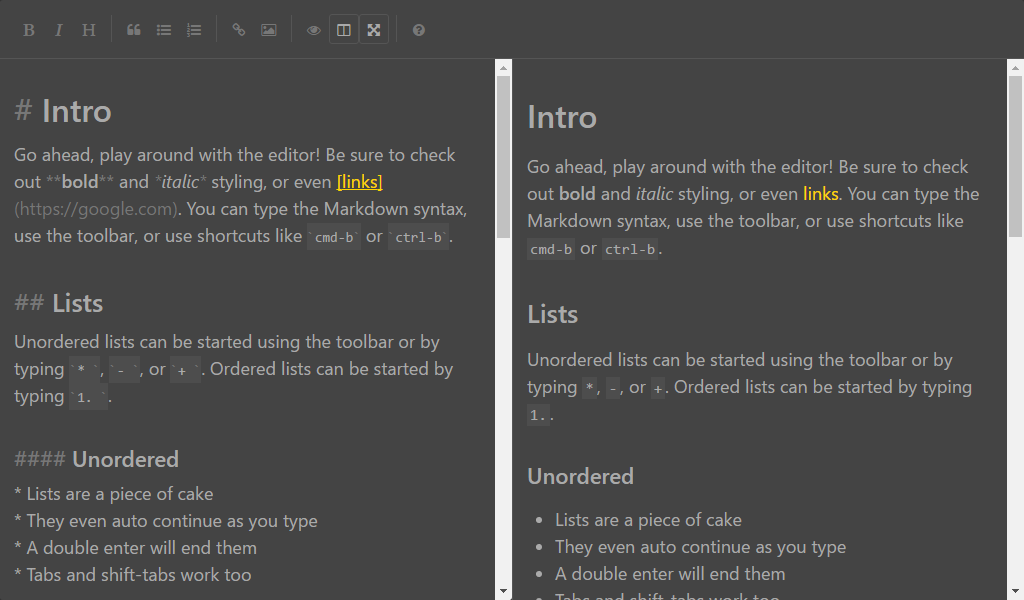
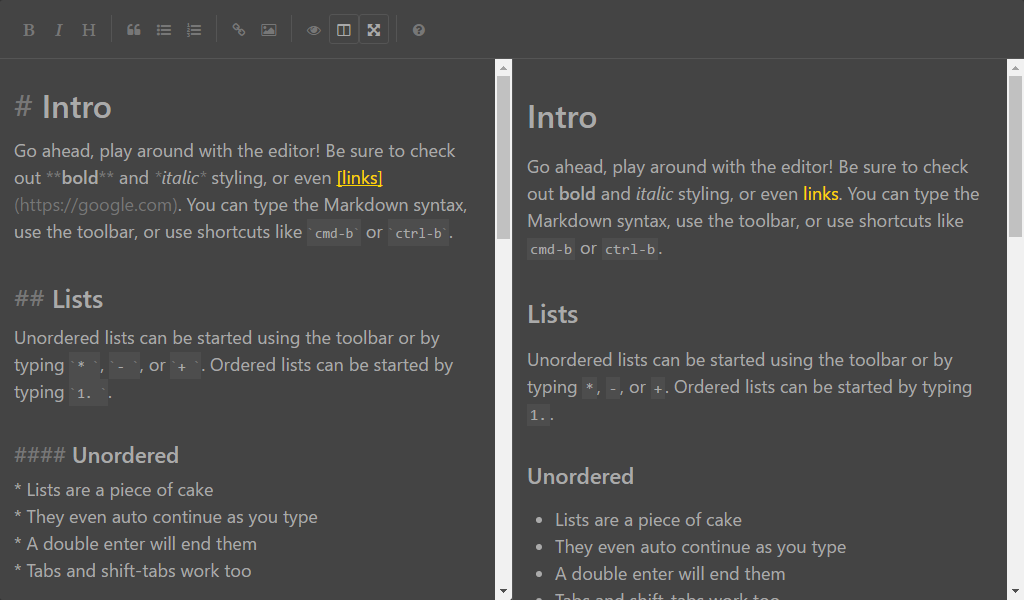
Fix lines paddings

diff --git a/dist/simplemde-theme-dark.min.css b/dist/simplemde-theme-dark.min.css
@@ -1,1 +1,1 @@
-@charset "UTF-8";.CodeMirror-lines{padding:4px 0}.CodeMirror-gutter-filler,.CodeMirror-scrollbar-filler{background-color:#fff}.CodeMirror-gutters{border-right:1px solid #ddd;background-color:#f7f7f7;white-space:nowrap}.CodeMirror-linenumber{padding:0 3px 0 5px;min-width:20px;text-align:right;color:#999;white-space:nowrap}.CodeMirror-guttermarker{color:#000}.CodeMirror-guttermarker-subtle{color:#999}.CodeMirror-cursor{border-left:1px solid #000;border-right:none;width:0}.CodeMirror div.CodeMirror-secondarycursor{border-left:1px solid silver}.cm-fat-cursor .CodeMirror-cursor{width:auto;border:0!important;background:#7e7}.cm-fat-cursor div.CodeMirror-cursors{z-index:1}.cm-animate-fat-cursor{width:auto;border:0;-webkit-animation:blink 1.06s steps(1) infinite;-moz-animation:blink 1.06s steps(1) infinite;animation:blink 1.06s steps(1) infinite;background-color:#7e7}@-moz-keyframes blink{50%{background-color:transparent}}@-webkit-keyframes blink{50%{background-color:transparent}}@keyframes blink{50%{background-color:transparent}}.cm-tab{display:inline-block;text-decoration:inherit}.CodeMirror-rulers{position:absolute;left:0;right:0;top:-50px;bottom:-20px;overflow:hidden}.CodeMirror-ruler{border-left:1px solid #ccc;top:0;bottom:0;position:absolute}.CodeMirror,.CodeMirror-scroll{position:relative;min-height:300px}.cm-s-default .cm-header{color:#00f}.cm-s-default .cm-quote{color:#090}.cm-negative{color:#d44}.cm-positive{color:#292}.cm-header,.cm-strong{font-weight:700}.cm-em{font-style:italic}.cm-link{text-decoration:underline}.CodeMirror .CodeMirror-code .cm-strikethrough,.cm-strikethrough{text-decoration:line-through}.cm-s-default .cm-keyword{color:#708}.cm-s-default .cm-atom{color:#219}.cm-s-default .cm-number{color:#164}.cm-s-default .cm-def{color:#00f}.cm-s-default .cm-variable-2{color:#05a}.cm-s-default .cm-variable-3{color:#085}.cm-s-default .cm-comment{color:#a50}.cm-s-default .cm-string{color:#a11}.cm-s-default .cm-string-2{color:#f50}.cm-s-default .cm-meta,.cm-s-default .cm-qualifier{color:#555}.cm-s-default .cm-builtin{color:#30a}.cm-s-default .cm-bracket{color:#997}.cm-s-default .cm-tag{color:#170}.cm-s-default .cm-attribute{color:#00c}.cm-s-default .cm-hr{color:#999}.cm-s-default .cm-link{color:#00c}.cm-invalidchar,.cm-s-default .cm-error{color:red}.CodeMirror-composing{border-bottom:2px solid}div.CodeMirror span.CodeMirror-matchingbracket{color:#0f0}div.CodeMirror span.CodeMirror-nonmatchingbracket{color:#f22}.CodeMirror-matchingtag{background:rgba(255,150,0,.3)}.CodeMirror-activeline-background{background:#e8f2ff}.CodeMirror{position:relative;overflow:hidden;background:#fff}.CodeMirror-scroll{overflow:scroll!important;height:100%;outline:0;position:relative}.CodeMirror-sizer{position:relative;border-right:30px solid transparent}.CodeMirror-gutter-filler,.CodeMirror-hscrollbar,.CodeMirror-scrollbar-filler,.CodeMirror-vscrollbar{position:absolute;z-index:6;display:none}.CodeMirror-vscrollbar{right:0;top:0;overflow-x:hidden;overflow-y:scroll}.CodeMirror-hscrollbar{bottom:0;left:0;overflow-y:hidden;overflow-x:scroll}.CodeMirror-scrollbar-filler{right:0;bottom:0}.CodeMirror-gutter-filler{left:0;bottom:0}.CodeMirror-gutters{position:absolute;left:0;top:0;min-height:100%;z-index:3}.CodeMirror-gutter{white-space:normal;height:100%;display:inline-block;vertical-align:top;margin-bottom:-30px}.CodeMirror-gutter-wrapper{position:absolute;z-index:4;background:0 0!important;border:none!important;-webkit-user-select:none;-moz-user-select:none;user-select:none}.CodeMirror-gutter-background{position:absolute;top:0;bottom:0;z-index:4}.CodeMirror-gutter-elt{position:absolute;cursor:default;z-index:4}.CodeMirror-lines{cursor:text;min-height:1px}.CodeMirror pre{-moz-border-radius:0;-webkit-border-radius:0;border-radius:0;border-width:0;background:0 0;font-family:inherit;font-size:inherit;margin:0;white-space:pre;word-wrap:normal;line-height:inherit;color:inherit;z-index:2;position:relative;overflow:visible;-webkit-tap-highlight-color:transparent;-webkit-font-variant-ligatures:contextual;font-variant-ligatures:contextual}.CodeMirror-wrap pre{word-wrap:break-word;white-space:pre-wrap;word-break:normal}.CodeMirror-linebackground{position:absolute;left:0;right:0;top:0;bottom:0;z-index:0}.CodeMirror-linewidget{position:relative;z-index:2;overflow:auto}.CodeMirror-code{outline:0}.CodeMirror-gutter,.CodeMirror-gutters,.CodeMirror-linenumber,.CodeMirror-scroll,.CodeMirror-sizer{-moz-box-sizing:content-box;box-sizing:content-box}.CodeMirror-measure{position:absolute;width:100%;height:0;overflow:hidden;visibility:hidden}.CodeMirror-cursor{position:absolute;pointer-events:none}.CodeMirror-measure pre{position:static}div.CodeMirror-cursors{visibility:hidden;position:relative;z-index:3}.CodeMirror-focused div.CodeMirror-cursors,div.CodeMirror-dragcursors{visibility:visible}.CodeMirror-selected{background:#d9d9d9}.CodeMirror-focused .CodeMirror-selected{background:#d7d4f0}.CodeMirror-crosshair{cursor:crosshair}.CodeMirror-line::selection,.CodeMirror-line>span::selection,.CodeMirror-line>span>span::selection{background:#d7d4f0}.CodeMirror-line::-moz-selection,.CodeMirror-line>span::-moz-selection,.CodeMirror-line>span>span::-moz-selection{background:#d7d4f0}.cm-searching{background:#ffa;background:rgba(255,255,0,.4)}.cm-force-border{padding-right:.1px}@media print{.CodeMirror div.CodeMirror-cursors{visibility:hidden}}.cm-tab-wrap-hack:after{content:''}span.CodeMirror-selectedtext{background:0 0}.CodeMirror{height:auto;border:1px solid #555;border-bottom-left-radius:3px;border-bottom-right-radius:3px;padding:14px;font-family:inherit;font-size:18px;line-height:1.5;color:#aaa;z-index:1;background-color:#444}.CodeMirror-scroll{margin-bottom:-32px;margin-right:-32px;padding-bottom:32px}.CodeMirror-fullscreen{background:#444;position:fixed!important;top:58px;left:0;right:0;bottom:0;height:auto;z-index:9;border:0;border-top:1px solid #555}.CodeMirror-sided{width:50%!important}.CodeMirror .CodeMirror-placeholder{color:#777}.CodeMirror-cursor{border-left-color:#aaa}.CodeMirror pre{padding:0}.CodeMirror-focused .CodeMirror-selected,.CodeMirror-line::-moz-selection,.CodeMirror-line>span::-moz-selection,.CodeMirror-line>span>span::-moz-selection,.CodeMirror-selected{background-color:rgba(255,255,255,.1)}.CodeMirror-focused .CodeMirror-selected,.CodeMirror-line::selection,.CodeMirror-line>span::selection,.CodeMirror-line>span>span::selection,.CodeMirror-selected{background-color:rgba(255,255,255,.1)}.CodeMirror .CodeMirror-code .cm-attribute,.CodeMirror .CodeMirror-code .cm-tag{color:#95bf40}.CodeMirror .CodeMirror-code .cm-string{color:#777}.CodeMirror .CodeMirror-code .cm-link{color:#ffd500}.CodeMirror .CodeMirror-code .cm-formatting-code,.CodeMirror .CodeMirror-code .cm-formatting-code-block,.CodeMirror .CodeMirror-code .cm-formatting-em,.CodeMirror .CodeMirror-code .cm-formatting-header,.CodeMirror .CodeMirror-code .cm-formatting-strikethrough,.CodeMirror .CodeMirror-code .cm-formatting-strong,.CodeMirror .CodeMirror-code .cm-hr,.CodeMirror .CodeMirror-code .cm-quote,.CodeMirror .CodeMirror-code .cm-url{color:#777}.CodeMirror .CodeMirror-code .cm-header-1,.CodeMirror .CodeMirror-code .cm-header-2,.CodeMirror .CodeMirror-code .cm-header-3,.CodeMirror .CodeMirror-code .cm-header-4,.CodeMirror .CodeMirror-code .cm-header-5,.CodeMirror .CodeMirror-code .cm-header-6{line-height:2}.CodeMirror .CodeMirror-code .cm-header-1{font-size:32px}.CodeMirror .CodeMirror-code .cm-header-2{font-size:26px}.CodeMirror .CodeMirror-code .cm-header-3{font-size:24px}.CodeMirror .CodeMirror-code .cm-header-4{font-size:22px}.CodeMirror .CodeMirror-code .cm-header-5{font-size:20px}.CodeMirror .CodeMirror-code .cm-header-6{font-size:18px}.CodeMirror .CodeMirror-code .cm-header,.CodeMirror .CodeMirror-code .cm-strong{font-weight:600}.CodeMirror .CodeMirror-code .cm-comment{font-family:Menlo,Monaco,Consolas,"Liberation Mono","Courier New",monospace;background:rgba(255,255,255,.05);font-size:14px;padding:6px 0 4px}.CodeMirror .CodeMirror-code span.CodeMirror-selectedtext.cm-comment{background:rgba(255,255,255,.05)}.editor-preview{position:absolute;width:100%;height:100%;top:0;left:0;z-index:2}.editor-preview-side{position:fixed;bottom:0;width:50%;top:58px;right:0;z-index:9;border:0;border-top:1px solid #555;border-left:1px solid #555}.editor-preview,.editor-preview-side{padding:0 14px 14px;color:#aaa;font-family:inherit;font-size:18px;line-height:1.5;background:#444;overflow:auto;display:none;box-sizing:border-box}.editor-preview pre,.editor-preview-side pre{overflow:auto;-webkit-overflow-scrolling:touch;background-color:rgba(255,255,255,.05);font-family:Menlo,Monaco,Consolas,"Liberation Mono","Courier New",monospace;font-size:14px;line-height:1.2;padding:14px;margin-top:14px}.editor-preview pre code,.editor-preview-side pre code{background-color:transparent;font-size:14px;padding:0}.editor-preview-active,.editor-preview-active-side{display:block}.editor-preview table,.editor-preview-side table{background-color:#444;border:0;border-collapse:collapse;border-spacing:0;width:100%}.editor-preview table caption,.editor-preview-side table caption{caption-side:bottom;color:#777;padding:7px;text-align:left}.editor-preview table td,.editor-preview table th,.editor-preview-side table td,.editor-preview-side table th{border:0;border-bottom:1px solid #555;padding:7px;text-align:left}.editor-preview table th,.editor-preview-side table th{background-color:rgba(255,255,255,.05);font-weight:600}.editor-preview audio:not([controls]),.editor-preview-side audio:not([controls]){display:none;height:0}.editor-preview img,.editor-preview-side img{max-width:100%;vertical-align:middle}.editor-preview audio,.editor-preview video,.editor-preview-side audio,.editor-preview-side video{width:100%}.editor-toolbar{position:relative;-webkit-user-select:none;-moz-user-select:none;-ms-user-select:none;user-select:none;padding:0 14px;border:1px solid #555;border-bottom:0;border-top-left-radius:3px;border-top-right-radius:3px;font-size:18px;background-color:#444}.editor-toolbar:after,.editor-toolbar:before{display:block;content:' ';height:1px}.editor-toolbar:before{margin-bottom:7px}.editor-toolbar:after{margin-top:7px}.editor-toolbar a{display:inline-block;text-align:center;text-decoration:none!important;color:#777!important;width:30px;height:30px;margin:0;border:1px solid transparent;border-radius:3px;cursor:pointer;font-size:80%}.editor-toolbar a.active,.editor-toolbar a:hover{color:#aaa!important;border-color:#555}.editor-toolbar a:before{line-height:30px}.editor-toolbar a.fa-header-x:after{font-family:inherit;font-size:80%;line-height:0;position:relative;vertical-align:baseline;bottom:-.25em}.editor-toolbar a.fa-header-1:after{content:"1"}.editor-toolbar a.fa-header-2:after{content:"2"}.editor-toolbar a.fa-header-3:after{content:"3"}.editor-toolbar a.fa-header-bigger:after{content:"▲"}.editor-toolbar a.fa-header-smaller:after{content:"▼"}.editor-toolbar i.separator{display:inline-block;width:0;border-right:1px solid #555;color:transparent;text-indent:-10px;margin:0 7px}.editor-toolbar:hover a{color:#aaa!important}.editor-toolbar.fullscreen{width:100%;height:58px;overflow-x:auto;overflow-y:hidden;white-space:nowrap;padding-top:14px;padding-bottom:14px;box-sizing:border-box;background:#444;border:0;position:fixed;top:0;left:0;z-index:9}.editor-toolbar.fullscreen::after,.editor-toolbar.fullscreen::before{width:20px;height:58px;position:fixed;top:0;left:0;margin:0;padding:0}@media only screen and (max-width:700px){.editor-toolbar a.no-mobile{display:none}}.editor-toolbar.disabled-for-preview a:not(.no-disable){pointer-events:none;background:#444;border-color:transparent;text-shadow:inherit}.editor-statusbar{padding:7px 14px;font-family:inherit;font-size:80%;color:#777;text-align:right}.editor-statusbar span{display:inline-block;margin-left:1em}.editor-statusbar .lines:before{content:'lines: '}.editor-statusbar .words:before{content:'words: '}.editor-statusbar .characters:before{content:'characters: '}
+@charset "UTF-8";.CodeMirror-gutter-filler,.CodeMirror-scrollbar-filler{background-color:#fff}.CodeMirror-gutters{border-right:1px solid #ddd;background-color:#f7f7f7;white-space:nowrap}.CodeMirror-linenumber{padding:0 3px 0 5px;min-width:20px;text-align:right;color:#999;white-space:nowrap}.CodeMirror-guttermarker{color:#000}.CodeMirror-guttermarker-subtle{color:#999}.CodeMirror-cursor{border-left:1px solid #000;border-right:none;width:0}.CodeMirror div.CodeMirror-secondarycursor{border-left:1px solid silver}.cm-fat-cursor .CodeMirror-cursor{width:auto;border:0!important;background:#7e7}.cm-fat-cursor div.CodeMirror-cursors{z-index:1}.cm-animate-fat-cursor{width:auto;border:0;-webkit-animation:blink 1.06s steps(1) infinite;-moz-animation:blink 1.06s steps(1) infinite;animation:blink 1.06s steps(1) infinite;background-color:#7e7}@-moz-keyframes blink{50%{background-color:transparent}}@-webkit-keyframes blink{50%{background-color:transparent}}@keyframes blink{50%{background-color:transparent}}.cm-tab{display:inline-block;text-decoration:inherit}.CodeMirror-rulers{position:absolute;left:0;right:0;top:-50px;bottom:-20px;overflow:hidden}.CodeMirror-ruler{border-left:1px solid #ccc;top:0;bottom:0;position:absolute}.CodeMirror,.CodeMirror-scroll{position:relative;min-height:300px}.cm-s-default .cm-header{color:#00f}.cm-s-default .cm-quote{color:#090}.cm-negative{color:#d44}.cm-positive{color:#292}.cm-header,.cm-strong{font-weight:700}.cm-em{font-style:italic}.cm-link{text-decoration:underline}.CodeMirror .CodeMirror-code .cm-strikethrough,.cm-strikethrough{text-decoration:line-through}.cm-s-default .cm-keyword{color:#708}.cm-s-default .cm-atom{color:#219}.cm-s-default .cm-number{color:#164}.cm-s-default .cm-def{color:#00f}.cm-s-default .cm-variable-2{color:#05a}.cm-s-default .cm-variable-3{color:#085}.cm-s-default .cm-comment{color:#a50}.cm-s-default .cm-string{color:#a11}.cm-s-default .cm-string-2{color:#f50}.cm-s-default .cm-meta,.cm-s-default .cm-qualifier{color:#555}.cm-s-default .cm-builtin{color:#30a}.cm-s-default .cm-bracket{color:#997}.cm-s-default .cm-tag{color:#170}.cm-s-default .cm-attribute{color:#00c}.cm-s-default .cm-hr{color:#999}.cm-s-default .cm-link{color:#00c}.cm-invalidchar,.cm-s-default .cm-error{color:red}.CodeMirror-composing{border-bottom:2px solid}div.CodeMirror span.CodeMirror-matchingbracket{color:#0f0}div.CodeMirror span.CodeMirror-nonmatchingbracket{color:#f22}.CodeMirror-matchingtag{background:rgba(255,150,0,.3)}.CodeMirror-activeline-background{background:#e8f2ff}.CodeMirror{position:relative;overflow:hidden;background:#fff}.CodeMirror-scroll{overflow:scroll!important;height:100%;outline:0;position:relative}.CodeMirror-sizer{position:relative;border-right:30px solid transparent}.CodeMirror-gutter-filler,.CodeMirror-hscrollbar,.CodeMirror-scrollbar-filler,.CodeMirror-vscrollbar{position:absolute;z-index:6;display:none}.CodeMirror-vscrollbar{right:0;top:0;overflow-x:hidden;overflow-y:scroll}.CodeMirror-hscrollbar{bottom:0;left:0;overflow-y:hidden;overflow-x:scroll}.CodeMirror-scrollbar-filler{right:0;bottom:0}.CodeMirror-gutter-filler{left:0;bottom:0}.CodeMirror-gutters{position:absolute;left:0;top:0;min-height:100%;z-index:3}.CodeMirror-gutter{white-space:normal;height:100%;display:inline-block;vertical-align:top;margin-bottom:-30px}.CodeMirror-gutter-wrapper{position:absolute;z-index:4;background:0 0!important;border:none!important;-webkit-user-select:none;-moz-user-select:none;user-select:none}.CodeMirror-gutter-background{position:absolute;top:0;bottom:0;z-index:4}.CodeMirror-gutter-elt{position:absolute;cursor:default;z-index:4}.CodeMirror-lines{cursor:text;min-height:1px}.CodeMirror pre{-moz-border-radius:0;-webkit-border-radius:0;border-radius:0;border-width:0;background:0 0;font-family:inherit;font-size:inherit;margin:0;white-space:pre;word-wrap:normal;line-height:inherit;color:inherit;z-index:2;position:relative;overflow:visible;-webkit-tap-highlight-color:transparent;-webkit-font-variant-ligatures:contextual;font-variant-ligatures:contextual}.CodeMirror-wrap pre{word-wrap:break-word;white-space:pre-wrap;word-break:normal}.CodeMirror-linebackground{position:absolute;left:0;right:0;top:0;bottom:0;z-index:0}.CodeMirror-linewidget{position:relative;z-index:2;overflow:auto}.CodeMirror-code{outline:0}.CodeMirror-gutter,.CodeMirror-gutters,.CodeMirror-linenumber,.CodeMirror-scroll,.CodeMirror-sizer{-moz-box-sizing:content-box;box-sizing:content-box}.CodeMirror-measure{position:absolute;width:100%;height:0;overflow:hidden;visibility:hidden}.CodeMirror-cursor{position:absolute;pointer-events:none}.CodeMirror-measure pre{position:static}div.CodeMirror-cursors{visibility:hidden;position:relative;z-index:3}.CodeMirror-focused div.CodeMirror-cursors,div.CodeMirror-dragcursors{visibility:visible}.CodeMirror-selected{background:#d9d9d9}.CodeMirror-focused .CodeMirror-selected{background:#d7d4f0}.CodeMirror-crosshair{cursor:crosshair}.CodeMirror-line::selection,.CodeMirror-line>span::selection,.CodeMirror-line>span>span::selection{background:#d7d4f0}.CodeMirror-line::-moz-selection,.CodeMirror-line>span::-moz-selection,.CodeMirror-line>span>span::-moz-selection{background:#d7d4f0}.cm-searching{background:#ffa;background:rgba(255,255,0,.4)}.cm-force-border{padding-right:.1px}@media print{.CodeMirror div.CodeMirror-cursors{visibility:hidden}}.cm-tab-wrap-hack:after{content:''}span.CodeMirror-selectedtext{background:0 0}.CodeMirror{height:auto;border:1px solid #555;border-bottom-left-radius:3px;border-bottom-right-radius:3px;padding:14px;font-family:inherit;font-size:18px;line-height:1.5;color:#aaa;z-index:1;background-color:#444}.CodeMirror-scroll{margin-bottom:-32px;margin-right:-32px;padding-bottom:32px}.CodeMirror-fullscreen{background:#444;position:fixed!important;top:58px;left:0;right:0;bottom:0;height:auto;z-index:9;border:0;border-top:1px solid #555}.CodeMirror-sided{width:50%!important}.CodeMirror .CodeMirror-placeholder{color:#777}.CodeMirror-cursor{border-left-color:#aaa}.CodeMirror pre,.CodeMirror-lines{padding:0}.CodeMirror-focused .CodeMirror-selected,.CodeMirror-line::-moz-selection,.CodeMirror-line>span::-moz-selection,.CodeMirror-line>span>span::-moz-selection,.CodeMirror-selected{background-color:rgba(255,255,255,.1)}.CodeMirror-focused .CodeMirror-selected,.CodeMirror-line::selection,.CodeMirror-line>span::selection,.CodeMirror-line>span>span::selection,.CodeMirror-selected{background-color:rgba(255,255,255,.1)}.CodeMirror .CodeMirror-code .cm-attribute,.CodeMirror .CodeMirror-code .cm-tag{color:#95bf40}.CodeMirror .CodeMirror-code .cm-string{color:#777}.CodeMirror .CodeMirror-code .cm-link{color:#ffd500}.CodeMirror .CodeMirror-code .cm-formatting-code,.CodeMirror .CodeMirror-code .cm-formatting-code-block,.CodeMirror .CodeMirror-code .cm-formatting-em,.CodeMirror .CodeMirror-code .cm-formatting-header,.CodeMirror .CodeMirror-code .cm-formatting-strikethrough,.CodeMirror .CodeMirror-code .cm-formatting-strong,.CodeMirror .CodeMirror-code .cm-hr,.CodeMirror .CodeMirror-code .cm-quote,.CodeMirror .CodeMirror-code .cm-url{color:#777}.CodeMirror .CodeMirror-code .cm-header-1,.CodeMirror .CodeMirror-code .cm-header-2,.CodeMirror .CodeMirror-code .cm-header-3,.CodeMirror .CodeMirror-code .cm-header-4,.CodeMirror .CodeMirror-code .cm-header-5,.CodeMirror .CodeMirror-code .cm-header-6{line-height:2}.CodeMirror .CodeMirror-code .cm-header-1{font-size:32px}.CodeMirror .CodeMirror-code .cm-header-2{font-size:26px}.CodeMirror .CodeMirror-code .cm-header-3{font-size:24px}.CodeMirror .CodeMirror-code .cm-header-4{font-size:22px}.CodeMirror .CodeMirror-code .cm-header-5{font-size:20px}.CodeMirror .CodeMirror-code .cm-header-6{font-size:18px}.CodeMirror .CodeMirror-code .cm-header,.CodeMirror .CodeMirror-code .cm-strong{font-weight:600}.CodeMirror .CodeMirror-code .cm-comment{font-family:Menlo,Monaco,Consolas,"Liberation Mono","Courier New",monospace;background:rgba(255,255,255,.05);font-size:14px;padding:6px 0 4px}.CodeMirror .CodeMirror-code span.CodeMirror-selectedtext.cm-comment{background:rgba(255,255,255,.05)}.editor-preview{position:absolute;width:100%;height:100%;top:0;left:0;z-index:2}.editor-preview-side{position:fixed;bottom:0;width:50%;top:58px;right:0;z-index:9;border:0;border-top:1px solid #555;border-left:1px solid #555}.editor-preview,.editor-preview-side{padding:0 14px 14px;color:#aaa;font-family:inherit;font-size:18px;line-height:1.5;background:#444;overflow:auto;display:none;box-sizing:border-box}.editor-preview pre,.editor-preview-side pre{overflow:auto;-webkit-overflow-scrolling:touch;background-color:rgba(255,255,255,.05);font-family:Menlo,Monaco,Consolas,"Liberation Mono","Courier New",monospace;font-size:14px;line-height:1.2;padding:14px;margin-top:14px}.editor-preview pre code,.editor-preview-side pre code{background-color:transparent;font-size:14px;padding:0}.editor-preview-active,.editor-preview-active-side{display:block}.editor-preview table,.editor-preview-side table{background-color:#444;border:0;border-collapse:collapse;border-spacing:0;width:100%}.editor-preview table caption,.editor-preview-side table caption{caption-side:bottom;color:#777;padding:7px;text-align:left}.editor-preview table td,.editor-preview table th,.editor-preview-side table td,.editor-preview-side table th{border:0;border-bottom:1px solid #555;padding:7px;text-align:left}.editor-preview table th,.editor-preview-side table th{background-color:rgba(255,255,255,.05);font-weight:600}.editor-preview audio:not([controls]),.editor-preview-side audio:not([controls]){display:none;height:0}.editor-preview img,.editor-preview-side img{max-width:100%;vertical-align:middle}.editor-preview audio,.editor-preview video,.editor-preview-side audio,.editor-preview-side video{width:100%}.editor-toolbar{position:relative;-webkit-user-select:none;-moz-user-select:none;-ms-user-select:none;user-select:none;padding:0 14px;border:1px solid #555;border-bottom:0;border-top-left-radius:3px;border-top-right-radius:3px;font-size:18px;background-color:#444}.editor-toolbar:after,.editor-toolbar:before{display:block;content:' ';height:1px}.editor-toolbar:before{margin-bottom:7px}.editor-toolbar:after{margin-top:7px}.editor-toolbar a{display:inline-block;text-align:center;text-decoration:none!important;color:#777!important;width:30px;height:30px;margin:0;border:1px solid transparent;border-radius:3px;cursor:pointer;font-size:80%}.editor-toolbar a.active,.editor-toolbar a:hover{color:#aaa!important;border-color:#555}.editor-toolbar a:before{line-height:30px}.editor-toolbar a.fa-header-x:after{font-family:inherit;font-size:80%;line-height:0;position:relative;vertical-align:baseline;bottom:-.25em}.editor-toolbar a.fa-header-1:after{content:"1"}.editor-toolbar a.fa-header-2:after{content:"2"}.editor-toolbar a.fa-header-3:after{content:"3"}.editor-toolbar a.fa-header-bigger:after{content:"▲"}.editor-toolbar a.fa-header-smaller:after{content:"▼"}.editor-toolbar i.separator{display:inline-block;width:0;border-right:1px solid #555;color:transparent;text-indent:-10px;margin:0 7px}.editor-toolbar:hover a{color:#aaa!important}.editor-toolbar.fullscreen{width:100%;height:58px;overflow-x:auto;overflow-y:hidden;white-space:nowrap;padding-top:14px;padding-bottom:14px;box-sizing:border-box;background:#444;border:0;position:fixed;top:0;left:0;z-index:9}.editor-toolbar.fullscreen::after,.editor-toolbar.fullscreen::before{width:20px;height:58px;position:fixed;top:0;left:0;margin:0;padding:0}@media only screen and (max-width:700px){.editor-toolbar a.no-mobile{display:none}}.editor-toolbar.disabled-for-preview a:not(.no-disable){pointer-events:none;background:#444;border-color:transparent;text-shadow:inherit}.editor-statusbar{padding:7px 14px;font-family:inherit;font-size:80%;color:#777;text-align:right}.editor-statusbar span{display:inline-block;margin-left:1em}.editor-statusbar .lines:before{content:'lines: '}.editor-statusbar .words:before{content:'words: '}.editor-statusbar .characters:before{content:'characters: '}

diff --git a/src/_codemirror-override.scss b/src/_codemirror-override.scss
@@ -47,6 +47,10 @@
   border-left-color: $color-text;
 }
 
+.CodeMirror-lines {
+  padding: 0;
+}
+
 // Override the default every-line-paddings in codemirror.css
 .CodeMirror pre {
   padding: 0 $smde-padding-line;

diff --git a/dist/simplemde-theme-dark.css b/dist/simplemde-theme-dark.css
@@ -381,6 +381,9 @@ span.CodeMirror-selectedtext { background: none; }
 .CodeMirror-cursor {
   border-left-color: #aaa; }
 
+.CodeMirror-lines {
+  padding: 0; }
+
 .CodeMirror pre {
   padding: 0 0; }
 
